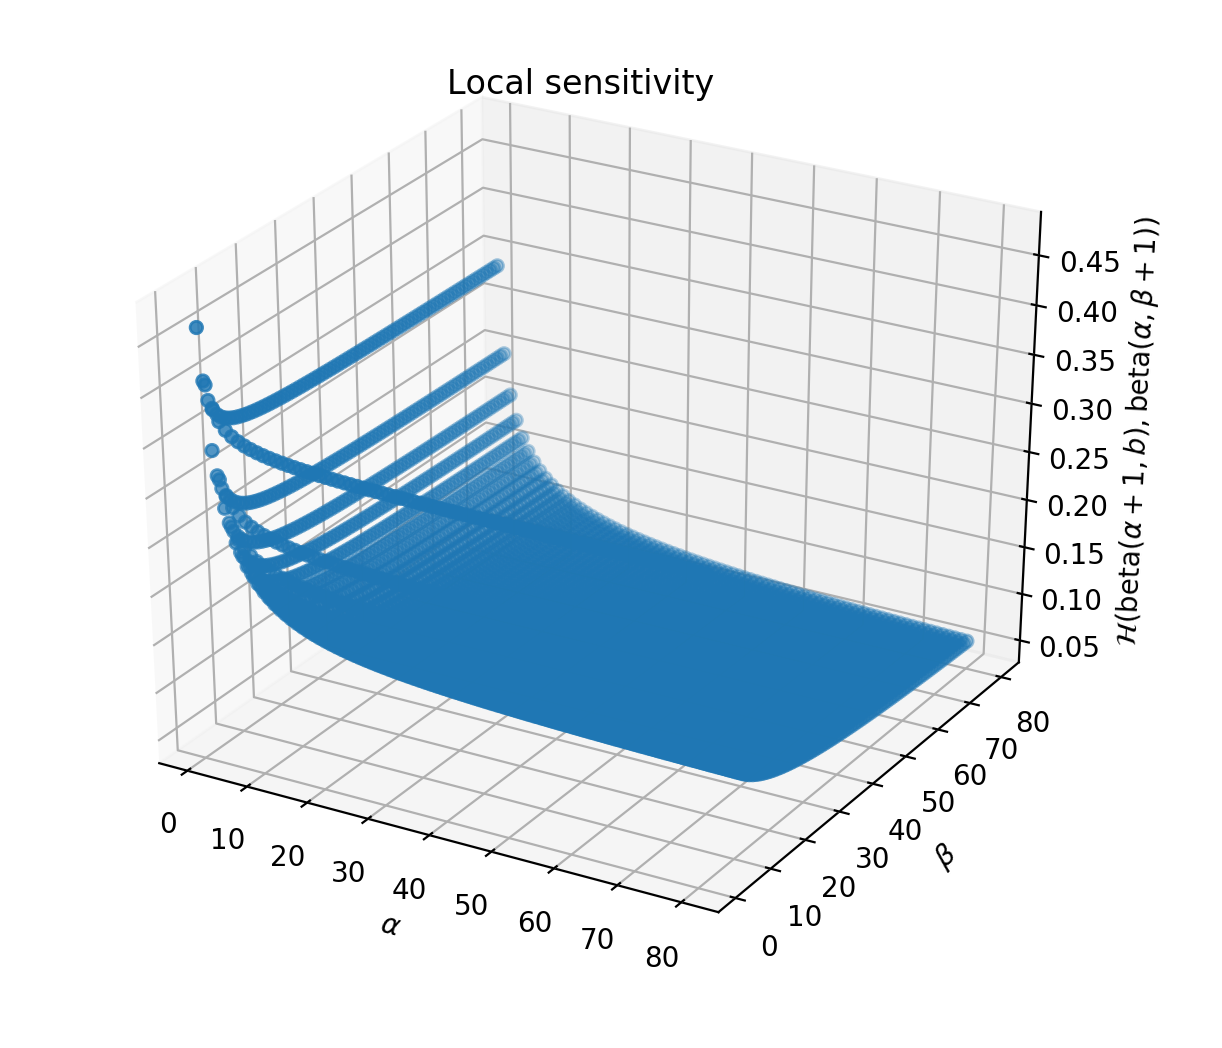
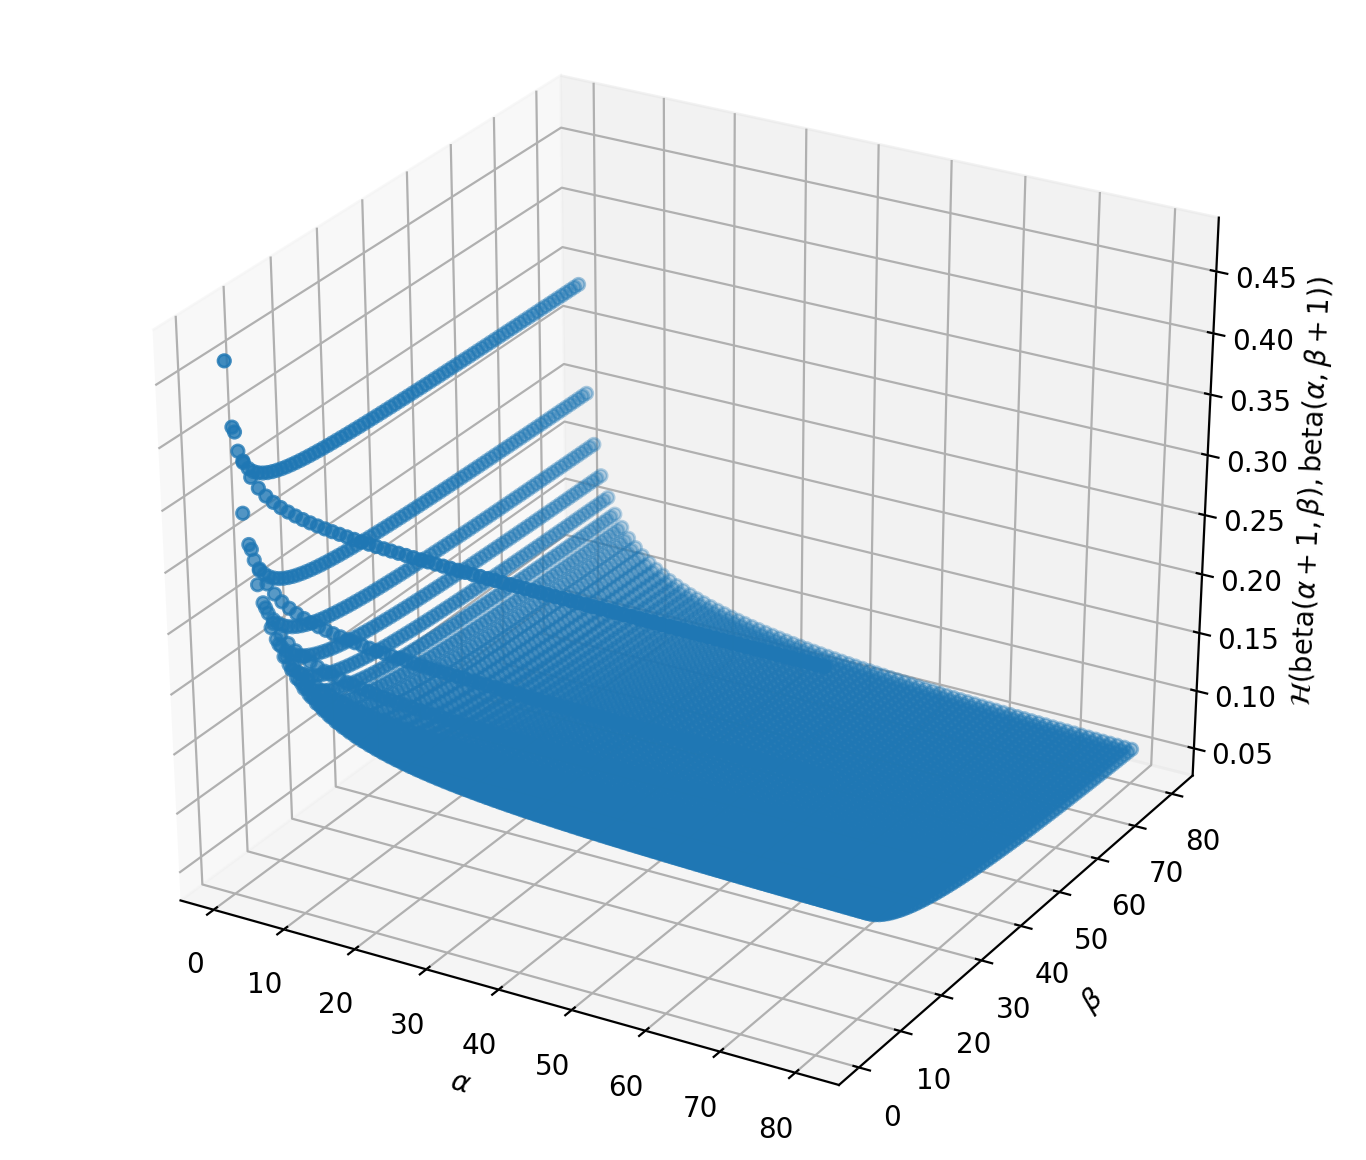
update plots

diff --git a/codes/main.py b/codes/main.py
@@ -148,32 +148,32 @@ def row_discrete_probabilities(sample_size,epsilon,delta,prior,observation):
 	f_lap_2.close()	
 
 	plt.figure()
-	plt.plot(steps[-100:], probabilities_exp_by_steps[-100:], 'ro', label=('Our ExpMech'))
+	plt.plot(steps[-100:], probabilities_exp_by_steps[-100:], 'ro', label=(r'$\mathcal{M}^{B}_{\mathcal{H}}$'))
 	# plt.plot(T, approximate_bounds, 'g^', label=('Expmech_SS zApproximate Bound'))
-	plt.plot(steps[-100:], probabilities_lap_1_by_steps[-100:], 'b^', label=('LapMech (sensitivity = 2)'))
+	plt.plot(steps[-100:], probabilities_lap_1_by_steps[-100:], 'b^', label=('LapMech (sensitivity = 1)'))
 
-	plt.plot(steps[-100:], probabilities_lap_2_by_steps[-100:], 'gv', label=('LapMech (sensitivity = 3)'))
+	plt.plot(steps[-100:], probabilities_lap_2_by_steps[-100:], 'gv', label=('LapMech (sensitivity = 2)'))
 
 	plt.xlabel("c / (steps from correct answer, in form of Hellinger Distance)")
 	plt.ylabel("Pr[H(BI(x),r) = c]")
 	plt.title("Discrete Probabilities")
 	plt.legend()
 	plt.grid()
-	plt.savefig("figure_discrete_prob/data_"+ str(observation) + "_prior_"+ str(Bayesian_Model._prior._alphas) + "_epsilon_"+ str(epsilon) + "_scatter.png")
+	plt.savefig("data_"+ str(observation) + "_prior_"+ str(Bayesian_Model._prior._alphas) + "_epsilon_"+ str(epsilon) + "_scatter.png")
 	# plt.show()
 	plt.figure()
-	plt.plot(steps[-100:], probabilities_exp_by_steps[-100:], 'r', label=('Our ExpMech'))
+	plt.plot(steps[-100:], probabilities_exp_by_steps[-100:], 'r', label=(r'$\mathcal{M}^{B}_{\mathcal{H}}$'))
 	# plt.plot(T, approximate_bounds, 'g^', label=('Expmech_SS zApproximate Bound'))
-	plt.plot(steps[-100:], probabilities_lap_1_by_steps[-100:], 'b', label=('LapMech (sensitivity = 2)'))
+	plt.plot(steps[-100:], probabilities_lap_1_by_steps[-100:], 'b', label=('LapMech (sensitivity = 1)'))
 
-	plt.plot(steps[-100:], probabilities_lap_2_by_steps[-100:], 'g', label=('LapMech (sensitivity = 3)'))
+	plt.plot(steps[-100:], probabilities_lap_2_by_steps[-100:], 'g', label=('LapMech (sensitivity = 2)'))
 
 	plt.xlabel("c / (steps from correct answer, in form of Hellinger Distance)")
 	plt.ylabel("Pr[H(BI(x),r) = c]")
 	plt.title("Discrete Probabilities")
 	plt.legend()
 	plt.grid()
-	plt.savefig("figure_discrete_prob/data_"+ str(observation) + "_prior_"+ str(Bayesian_Model._prior._alphas) + "_epsilon_"+ str(epsilon) + "_line.png")
+	plt.savefig("data_"+ str(observation) + "_prior_"+ str(Bayesian_Model._prior._alphas) + "_epsilon_"+ str(epsilon) + "_line.png")
 	# plt.show()
 
 
@@ -580,7 +580,7 @@ if __name__ == "__main__":
 	x1 = [1,499]
 	x2 = [0,500]
 	epsilons = numpy.arange(0.1, 2, 0.1)
-	datasizes = gen_datasizes((100,600),50)#[300] #[8,12,18,24,30,36,42,44,46,48]#,50,52,54,56,58,60,62,64,66,68,70,72,74,76,78,80]
+	datasizes = gen_datasizes((600,600),50)#[300] #[8,12,18,24,30,36,42,44,46,48]#,50,52,54,56,58,60,62,64,66,68,70,72,74,76,78,80]
 	percentage = [0.5,0.5]
 	datasets = gen_datasets(percentage, datasizes)
 # 	priors = [dirichlet([4*i,4*i,4*i]) for i in range(5,20)]
@@ -588,21 +588,21 @@ if __name__ == "__main__":
 	# accuracy_VS_prior_mean(sample_size,epsilon,delta,priors,observations)
 	# accuracy_VS_prior(sample_size,epsilon,delta,priors,observation,mean)
 	# accuracy_VS_mean(sample_size,epsilon,delta,prior)
-	accuracy_VS_datasize(epsilon,delta,prior,datasets,datasizes)
+	# accuracy_VS_datasize(epsilon,delta,prior,datasets,datasizes)
 	# hellinger_vs_l1norm(Dir(observation))
 	# global_epsilon_study(datasizes,epsilon,delta,prior)
 	# accuracy_VS_epsilon(sample_size,epsilons,delta,prior,observation)
 	# for i in range(len(datasizes)):
 	# 	row_discrete_probabilities(datasizes[i],epsilon,delta,prior,datasets[i])
 
-	# discrete_probabilities_from_file(
-	# 	["datas/data_[150, 150, 150, 150]_exp.txt",
-	# 	"datas/data_[150, 150, 150, 150]_lap_sensitivity1.txt", 
-	# 	"datas/data_[150, 150, 150, 150]_lap_sensitivity2.txt"],
-	# 	["Our ExpMech",
-	# 	"LapMech (sensitivity = 2)",
-	# 	"LapMech (sensitivity = 4)"],
-	# 	"figure_discrete_prob/data_[150, 150, 150, 150]_epsilon_1")
+	discrete_probabilities_from_file(
+		["datas/discrete_prob_4/exp/data_[150, 150, 150, 150]_exp.txt",
+		"datas/discrete_prob_4/lap2/data_[150, 150, 150, 150]_lap_sensitivity2.txt", 
+		"datas/discrete_prob_4/lap3/data_[150, 150, 150, 150]_lap_sensitivity4.txt"],
+		[r'$\mathcal{M}^{B}_{\mathcal{H}}$',
+		"LapMech (sensitivity = 2)",
+		"LapMech (sensitivity = 4)"],
+		"poster_5")
 
 	# epsilon_study(datasize,epsilon,delta,prior,x1, x2)
 	# row_discrete_probabilities(datasize,epsilon,delta,prior,observation)

diff --git a/codes/Hellinger_Sensitivity.py b/codes/Hellinger_Sensitivity.py
@@ -63,8 +63,7 @@ if __name__ == "__main__":
 	ax.scatter(x, y, z)
 	ax.set_xlabel(r'$\alpha$')
 	ax.set_ylabel(r'$\beta$')
-	ax.set_zlabel(r'$\mathcal{H}(\mathsf{beta}(\alpha+1, b), \mathsf{beta}(\alpha, \beta+1))$')
-	ax.set_title("Local sensitivity")
+	ax.set_zlabel(r'$\mathcal{H}(\mathsf{beta}(\alpha+1, \beta), \mathsf{beta}(\alpha, \beta+1))$')
 	plt.show()
 
 
